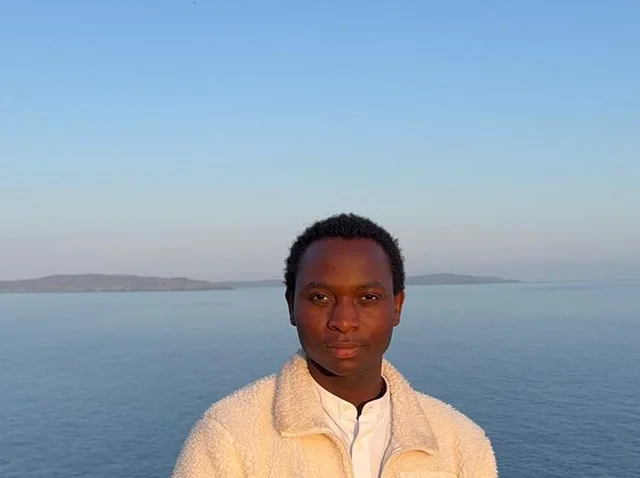
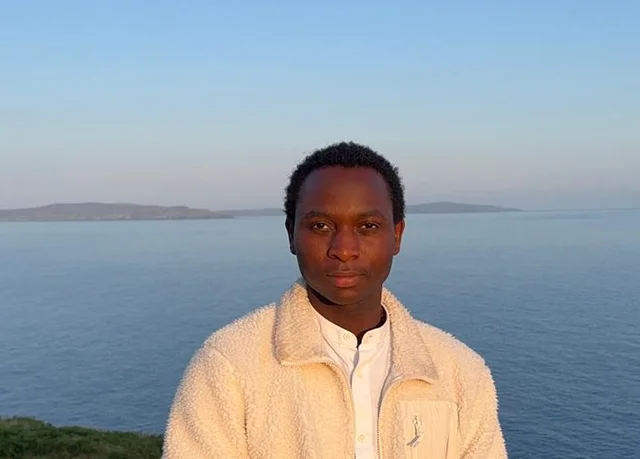
Lower hero blur and restore higher mobile framing
Pull the mobile photo framing back up, drop the soft fade lower so more face and torso stay clear, and uncrop the bottom slightly under the blur.

diff --git a/src/components/pages/IndexPage.tsx b/src/components/pages/IndexPage.tsx
@@ -114,14 +114,14 @@ function Hero() {
         <HeroPhoto
           priority
           sizes="100vw"
-          className="absolute inset-0 h-full w-full object-cover object-[center_68%] md:-translate-x-[15%] md:origin-left md:scale-[1.15] md:object-[left_85%]"
+          className="absolute inset-0 h-full w-full object-cover object-[center_52%] md:-translate-x-[15%] md:origin-left md:scale-[1.15] md:object-[left_85%]"
         />
-        {/* Soft fade from photo into the band below — mobile + desktop */}
+        {/* Soft fade pulled lower — more face/torso clear above; covers lower edge */}
         <div
-          className="pointer-events-none absolute inset-x-0 bottom-0 h-36 md:h-44"
+          className="pointer-events-none absolute inset-x-0 bottom-0 h-24 md:h-32"
           style={{
             background:
-              "linear-gradient(180deg, rgba(10,22,40,0) 0%, rgba(10,22,40,0.28) 38%, rgba(10,22,40,0.72) 70%, #0a1628 100%)",
+              "linear-gradient(180deg, rgba(10,22,40,0) 0%, rgba(10,22,40,0.22) 45%, rgba(10,22,40,0.7) 78%, #0a1628 100%)",
           }}
           aria-hidden
         />
